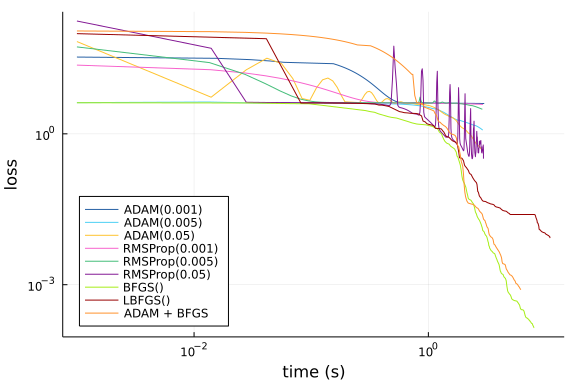
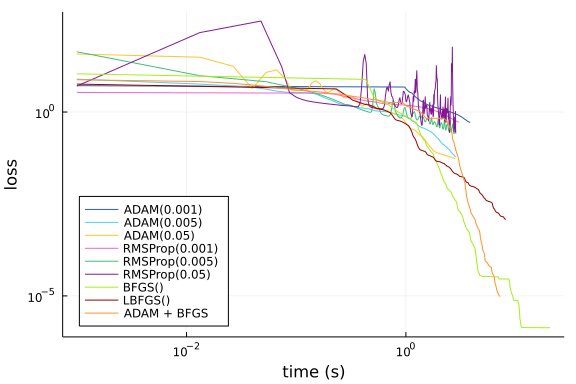
Automatic build\nPublished by build of: https://github.com/SciML/SciMLBenchmarks.jl/commit/61c047455ef7845709acad38f267d75462b74631

diff --git a/markdown/PINNOptimizers/poisson.md b/markdown/PINNOptimizers/poisson.md
@@ -40,7 +40,7 @@ function solve(opt)
 
     # Neural network
     dim = 2 # number of dimensions
-    chain = Lux.Chain(Lux.Dense(dim,16,Lux.σ),Lux.Dense(16,16,Lux.σ),Lux.Dense(16,1))
+    chain = Lux.Chain(Lux.Dense(dim,16,tanh),Lux.Dense(16,16,tanh),Lux.Dense(16,1))
 
     discretization = PhysicsInformedNN(chain,strategy)
 
@@ -135,18 +135,17 @@ loss_9, times_9 = solve("both")
 ```
 
 ```
-(Any[111.23458592333064, 107.74934312225122, 104.32754314789868, 100.969828
-92087244, 97.67737873945813, 94.4507391100004, 91.29064660245729, 88.197661
-1778383, 85.1722683419618, 82.2151060049787  …  0.000987132143862735, 0.000
-9600250327383738, 0.0009342608842688228, 0.0009191511614174536, 0.000899384
-0463767035, 0.0008708992762059668, 0.0008492931554830423, 0.000826369874473
-0194, 0.0008074016505431702, 0.0007957170389317095], Any[0.001, 0.013679981
-231689453, 0.027192115783691406, 0.04068112373352051, 0.054125070571899414,
- 0.06768012046813965, 0.08139801025390625, 0.09525704383850098, 0.109122037
-88757324, 0.1229860782623291  …  5.805361032485962, 5.845901966094971, 5.88
-63301277160645, 5.9264280796051025, 5.966185092926025, 6.006482124328613, 6
-.047518968582153, 6.0883870124816895, 6.129363059997559, 6.157390117645264]
-)
+(Any[7.55210761967591, 6.738245743400384, 6.039113531847345, 5.453153393878
+098, 4.976244813580421, 4.600357215818136, 4.313798607126574, 4.10123878064
+7389, 3.9448849369131946, 3.8266295419550427  …  1.288300960885282e-5, 1.23
+81083037823439e-5, 1.1957739664853757e-5, 1.1738302698433935e-5, 1.13718145
+91556774e-5, 1.0899803195360367e-5, 1.0207456097123023e-5, 9.90151116977110
+3e-6, 9.843678496512308e-6, 9.773726902714212e-6], Any[0.001, 0.01324701309
+2041016, 0.026326894760131836, 0.03935098648071289, 0.05233597755432129, 0.
+06552696228027344, 0.07862091064453125, 0.09172677993774414, 0.104933977127
+0752, 0.11810684204101562  …  6.814591884613037, 6.845149993896484, 6.92205
+0952911377, 6.9531519412994385, 6.982614994049072, 7.028416872024536, 7.073
+4570026397705, 7.118039846420288, 7.148956775665283, 7.2393388748168945])
 ```
 
 
@@ -173,13 +172,13 @@ p = plot([loss_1, loss_2, loss_3, loss_4, loss_5, loss_6, loss_7, loss_8, loss_9
 
 ```
 (loss_1[end], loss_2[end], loss_3[end], loss_4[end], loss_5[end], loss_6[en
-d], loss_7[end], loss_8[end], loss_9[end]) = (4.014743980191867, 1.18826187
-20692275, 0.465424840710782, 3.8474879470429313, 3.0807467092983565, 0.3208
-210942984922, 0.00013989575254808582, 0.008465343546862871, 0.0007957170389
-317095)
-(4.014743980191867, 1.1882618720692275, 0.465424840710782, 3.84748794704293
-13, 3.0807467092983565, 0.3208210942984922, 0.00013989575254808582, 0.00846
-5343546862871, 0.0007957170389317095)
+d], loss_7[end], loss_8[end], loss_9[end]) = (0.5197854060155944, 0.0593237
+7890829687, 0.05363477375781643, 0.5298503592271959, 0.25633638099843226, 0
+.27710052835356874, 1.3669328881582023e-6, 0.0011857788096591908, 9.7737269
+02714212e-6)
+(0.5197854060155944, 0.05932377890829687, 0.05363477375781643, 0.5298503592
+271959, 0.25633638099843226, 0.27710052835356874, 1.3669328881582023e-6, 0.
+0011857788096591908, 9.773726902714212e-6)
 ```
 
 
@@ -217,7 +216,7 @@ Environment:
 Package Information:
 
 ```
-      Status `/cache/build/exclusive-amdci1-0/julialang/scimlbenchmarks-dot-jl/benchmarks/PINNOptimizers/Project.toml`
+      Status `/cache/build/exclusive-amdci3-0/julialang/scimlbenchmarks-dot-jl/benchmarks/PINNOptimizers/Project.toml`
   [b2108857] Lux v0.4.11
   [961ee093] ModelingToolkit v8.18.1
   [315f7962] NeuralPDE v5.0.0
@@ -231,7 +230,7 @@ Package Information:
 And the full manifest:
 
 ```
-      Status `/cache/build/exclusive-amdci1-0/julialang/scimlbenchmarks-dot-jl/benchmarks/PINNOptimizers/Manifest.toml`
+      Status `/cache/build/exclusive-amdci3-0/julialang/scimlbenchmarks-dot-jl/benchmarks/PINNOptimizers/Manifest.toml`
   [c3fe647b] AbstractAlgebra v0.27.1
   [621f4979] AbstractFFTs v1.2.1
   [1520ce14] AbstractTrees v0.4.2
